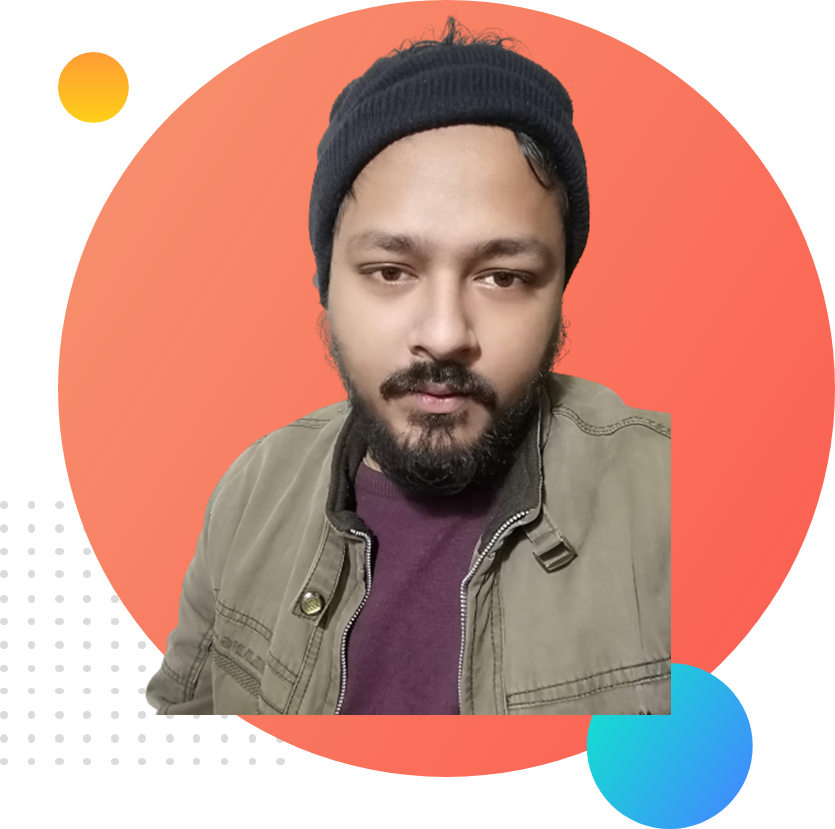
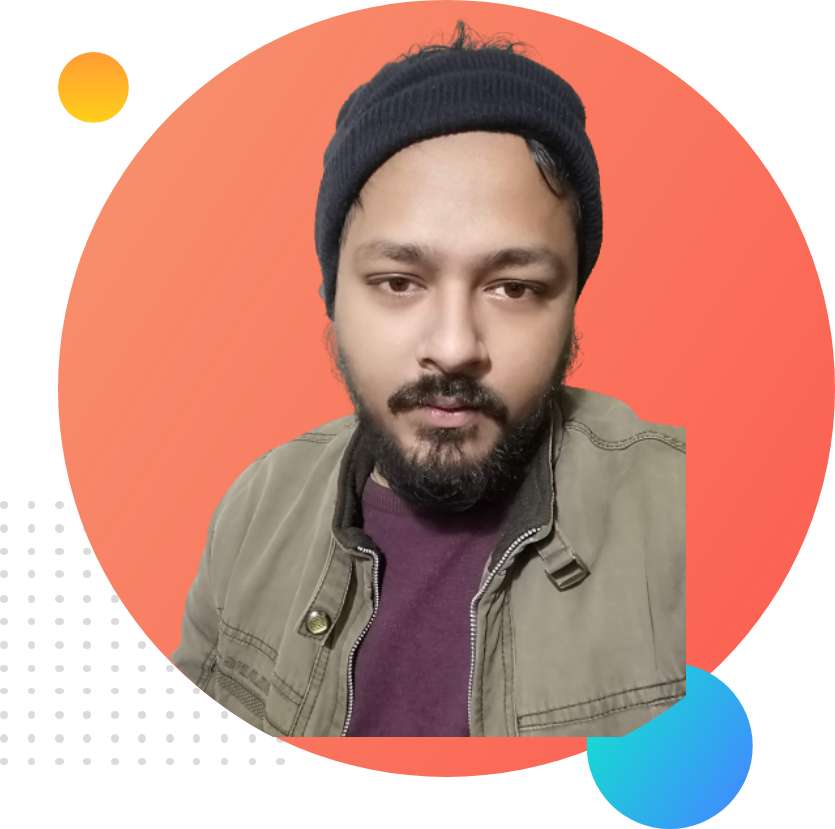
box shape and border added

Changed region(s): [[0.1557, 0.0, 0.8407, 0.9047], [0.6228, 0.0603, 0.6539, 0.0905]]

diff --git a/index.html b/index.html
@@ -13,7 +13,7 @@
 </head>
 
 <body>
-    <section class="top-banner">
+    <section class="top-banner flexible-container">
         <div class="half-width">
             <h1>Welcome To</h1>
             <h1><span class="orange-color">Rayhan's </span> World!</h1>
@@ -36,7 +36,7 @@
 
 
     </section>
-    <section class="dream-big">
+    <section class="dream-big flexible-container">
         <div class="half-width">
             <img src="images/my-bg2.png" alt="second bubble image">
         </div>
@@ -47,6 +47,26 @@
                 can even teach my grandma how
                 to make simple website. My goal is to build 3 websites and learn advanced topics.</p>
             <a class="link-button" target="_blank" href="https://www.facebook.com/rayhan.3300">My Facebook</a>
+        </div>
+    </section>
+    <section class="experience-area">
+        <h1>Experiences</h1>
+        <div class="flexible-container">
+            <div id="fsd" class="experience-item">
+                <h2>Full stack developer</h2>
+                <h3 class="orange-color">2022-Present | Peo Level Developer </h3>
+                <p>I am the master of HTML, CSS and Javascript. I know everything needed to make a website function,
+                    efficient. I didn't stop with the web. I went beyond with most popular Javascript framework called
+                    Vue
+                    JS. I even know the deployment, server and security. I will give you 100% web solution.</p>
+            </div>
+            <div id="bwd" class="experience-item">
+                <h2>Baby web developer</h2>
+                <h3 class="orange-color">2022-2024 | Hero Learner Developer</h3>
+                <p>They didn't offer me a job. But I made myself as a remove web developer. I made their website and
+                    showed
+                    it to them. They liked it. And uploaded the content. It was fun working at Programming Hero.</p>
+            </div>
         </div>
     </section>
 </body>

diff --git a/style.css b/style.css
@@ -7,13 +7,18 @@ h1 {
     font-size: 50px;
 }
 
+h2 {
+    font-size: 40px;
+}
+
 .orange-color {
     color: orange;
 }
 
-section {
+.flexible-container {
     display: flex;
-    margin-bottom: 100px;
+    margin-bottom: 150px;
+
 }
 
 .half-width {
@@ -52,4 +57,27 @@ section {
 
 #p2 {
     padding-right: 1.2in;
+}
+
+.experience-area {
+    background-image: url(images/exp-bg.png);
+    background-repeat: no-repeat;
+    background-position: left;
+}
+
+.experience-item {
+    box-shadow: 10px 10px 40px grey;
+    width: 40%;
+    margin: 5%;
+    padding: 20px;
+    border-radius: 10px;
+
+}
+
+#fsd {
+    border-left: 10px solid tomato;
+}
+
+#bwd {
+    border-left: 10px solid royalblue;
 }
